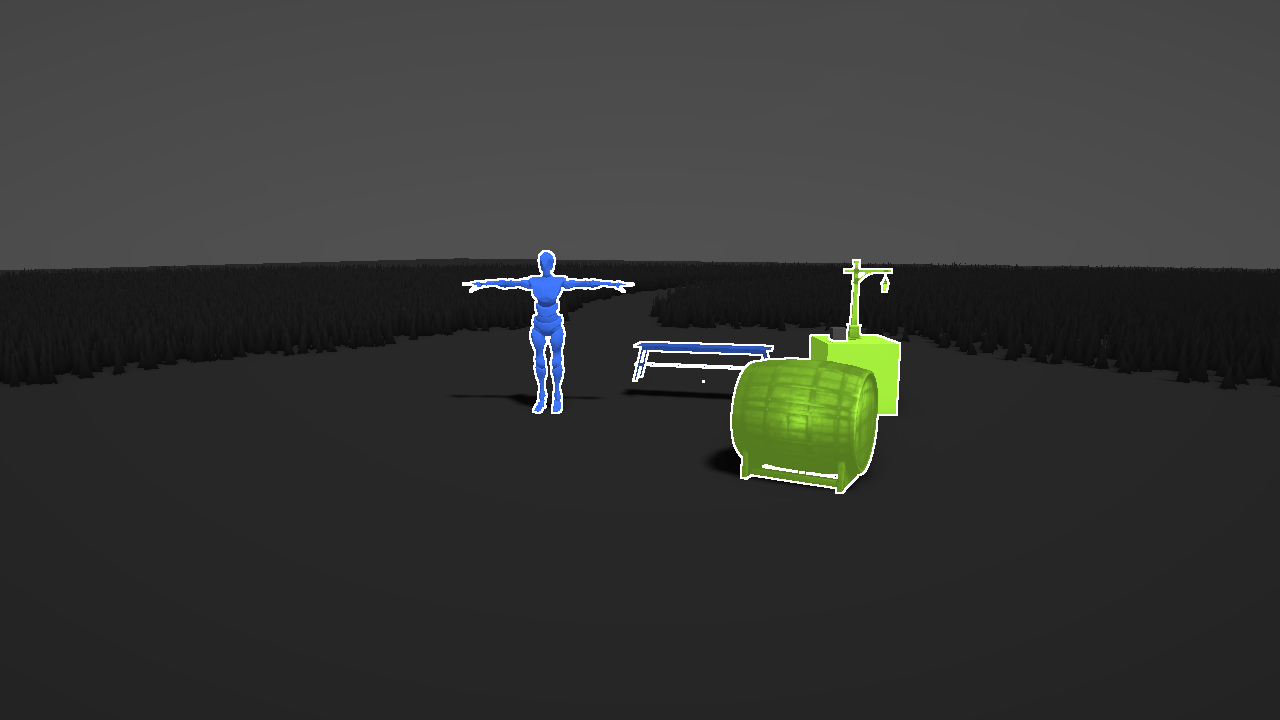
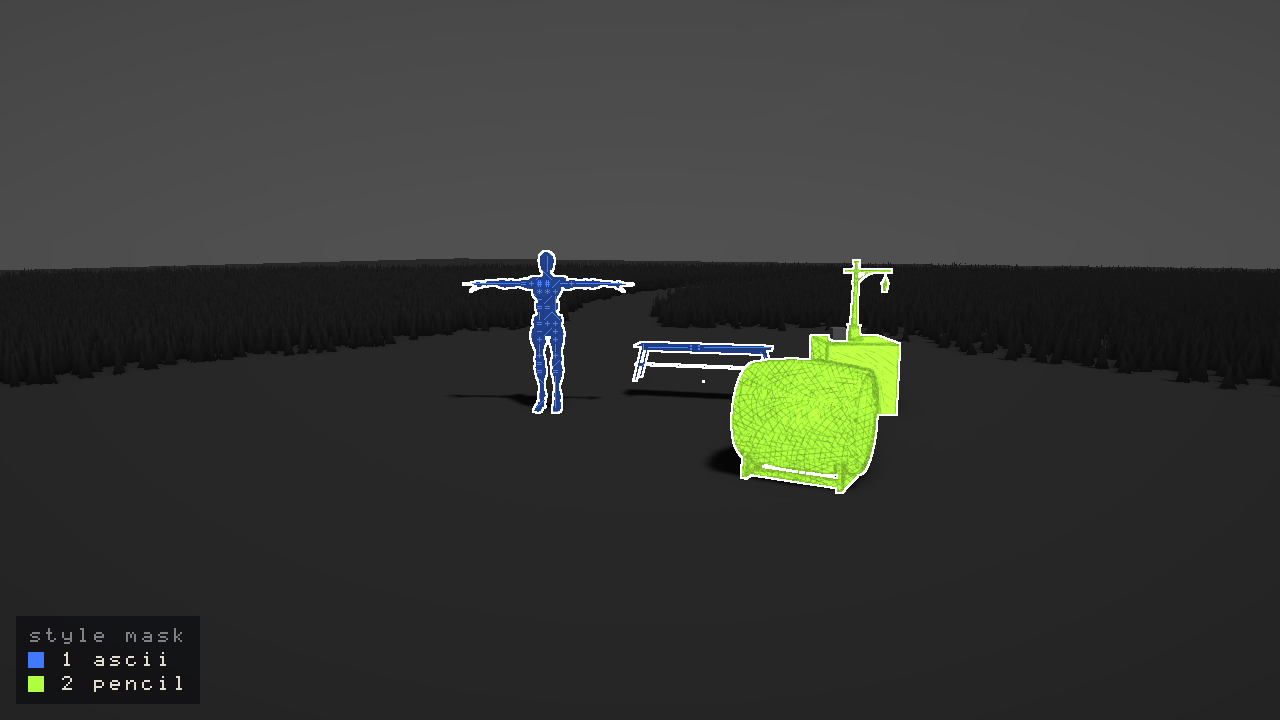
Style mask legend: each id's hue named in flint render, on the image and in F4 (#309)
flint render --debug-mode style prints the id table (style mask: 1 ascii
(blue), 2 pencil (lime)) and draws a legend card in the image's lower left
with the built-in 8x8 glyphs. F4's Debug mode section shows the same
legend while Style Mask is chosen, in the player and the viewer.
style_mask::legend / legend_line / debug_color_name build it from
SceneRenderer::style_ids(). The style-mask golden is re-blessed with the
card, and the book's mask capture and text show it.

Closes #309

diff --git a/crates/flint-debug-ui/src/render_panel.rs b/crates/flint-debug-ui/src/render_panel.rs
@@ -17,6 +17,7 @@
 
 use crate::styles_ui::StylesEditor;
 use crate::DebugPanel;
+use flint_render::style_mask::{legend, LegendEntry, StyleIds};
 use flint_render::stylize::StyleSettings;
 use flint_render::{DebugMode, LightingLevers, PostProcessConfig};
 
@@ -71,6 +72,9 @@ pub struct RenderDebugPanel {
     /// Authored button and markers; set by the host on scene load.
     authored_styles: Option<StyleSettings>,
     styles_editor: StylesEditor,
+    /// The style mask view's legend (#309), shown under the debug mode
+    /// while it is Style Mask; set by the host from the renderer's ids.
+    style_legend: Vec<LegendEntry>,
     flags: RenderPanelFlags,
     open: bool,
     dirty: bool,
@@ -98,6 +102,7 @@ impl RenderDebugPanel {
             show_freeze,
             authored_styles: None,
             styles_editor: StylesEditor::default(),
+            style_legend: Vec::new(),
             flags: RenderPanelFlags::default(),
             open: false,
             dirty: false,
@@ -132,6 +137,25 @@ impl RenderDebugPanel {
     /// or `None` when the host has no scene to compare against.
     pub fn set_authored_styles(&mut self, authored: Option<StyleSettings>) {
         self.authored_styles = authored;
+    }
+
+    /// Mirror the renderer's style ids into the Style Mask legend. Cheap
+    /// every frame: it rebuilds only when the ids changed.
+    pub fn set_style_ids(&mut self, ids: &StyleIds) {
+        let same = self.style_legend.len() == ids.len()
+            && self
+                .style_legend
+                .iter()
+                .zip(ids.iter())
+                .all(|(e, (id, name))| e.id == id && e.name == name);
+        if !same {
+            self.style_legend = legend(ids);
+        }
+    }
+
+    /// The Style Mask legend's rows, in id order.
+    pub fn style_legend(&self) -> &[LegendEntry] {
+        &self.style_legend
     }
 
     /// The block the Styles section's last Copy TOML put on the clipboard.
@@ -472,6 +496,9 @@ impl RenderDebugPanel {
                         }
                     }
                 });
+            if self.debug_mode == DebugMode::StyleMask {
+                style_legend_ui(ui, &self.style_legend);
+            }
         });
 
         self.flags = f;
@@ -479,6 +506,31 @@ impl RenderDebugPanel {
             self.dirty = true;
         }
     }
+}
+
+/// The Style Mask view's legend: a swatch of each id's hue, its id and
+/// the style variant it stands for.
+fn style_legend_ui(ui: &mut egui::Ui, rows: &[LegendEntry]) {
+    if rows.is_empty() {
+        ui.weak("No styled entities: the mask is empty");
+        return;
+    }
+    for row in rows {
+        ui.horizontal(|ui| {
+            let (rect, _) = ui.allocate_exact_size(egui::vec2(10.0, 10.0), egui::Sense::hover());
+            // The mask view paints these display values
+            let byte = |v: f32| (v.clamp(0.0, 1.0) * 255.0).round() as u8;
+            let [r, g, b] = row.color;
+            ui.painter().rect_filled(
+                rect,
+                2.0,
+                egui::Color32::from_rgb(byte(r), byte(g), byte(b)),
+            );
+            ui.label(format!("{}  {}", row.id, row.name))
+                .on_hover_text(row.color_name);
+        });
+    }
+    ui.weak("Grey: unstyled. White: where ids meet.");
 }
 
 fn fov_label(fov_deg: f32) -> &'static str {
@@ -585,5 +637,34 @@ impl DebugPanel for RenderDebugPanel {
     }
     fn as_any_mut(&mut self) -> &mut dyn std::any::Any {
         self
+    }
+}
+
+#[cfg(test)]
+mod tests {
+    use super::*;
+    use flint_render::style_mask::StyleVariant;
+
+    #[test]
+    fn the_style_mask_legend_follows_the_renderer_ids() {
+        let mut panel = RenderDebugPanel::new(false);
+        let mut ids = StyleIds::default();
+        panel.set_style_ids(&ids);
+        assert!(panel.style_legend().is_empty());
+        ids.set(vec![
+            ("pencil".into(), StyleVariant::plain("pencil")),
+            ("ascii".into(), StyleVariant::plain("ascii")),
+        ]);
+        panel.set_style_ids(&ids);
+        let rows: Vec<_> = panel
+            .style_legend()
+            .iter()
+            .map(|e| (e.id, e.name.as_str()))
+            .collect();
+        assert_eq!(rows, [(1, "ascii"), (2, "pencil")]);
+        ids.set(vec![("pencil".into(), StyleVariant::plain("pencil"))]);
+        panel.set_style_ids(&ids);
+        assert_eq!(panel.style_legend()[0].name, "pencil");
+        assert_eq!(panel.style_legend()[0].id, 1, "ids renumber by name order");
     }
 }

diff --git a/crates/flint-cli/src/commands/style_sheet.rs b/crates/flint-cli/src/commands/style_sheet.rs
@@ -149,6 +149,61 @@ pub fn draw_text(
     }
 }
 
+/// The style mask view's legend (#309), in the image's lower left: a
+/// swatch of each style id's hue, its id and its name, on a dark card.
+/// Nothing styled still gets a card saying so, so an empty mask reads as
+/// empty rather than broken.
+pub fn draw_legend(img: &mut RgbaImage, entries: &[flint_render::style_mask::LegendEntry]) {
+    let (w, h) = img.dimensions();
+    let scale = (w / 640).clamp(1, 3);
+    let line = GLYPH * scale;
+    let pad = 6 * scale;
+    let gap = 4 * scale;
+    let rows: Vec<(Option<[f32; 3]>, String)> = if entries.is_empty() {
+        vec![(None, "no styled entities".to_string())]
+    } else {
+        entries
+            .iter()
+            .map(|e| (Some(e.color), format!("{} {}", e.id, e.name)))
+            .collect()
+    };
+    let longest = rows
+        .iter()
+        .map(|(_, t)| t.chars().count())
+        .max()
+        .unwrap_or(0) as u32;
+    let swatch = line;
+    let card_w = (pad * 2 + swatch + gap * 2 + longest * line).min(w);
+    let header = line + gap;
+    let card_h = (pad * 2 + header + rows.len() as u32 * (line + gap) - gap).min(h);
+    let margin = 8 * scale;
+    let x0 = margin.min(w.saturating_sub(card_w));
+    let y0 = h.saturating_sub(card_h + margin);
+    for y in y0..(y0 + card_h).min(h) {
+        for x in x0..(x0 + card_w).min(w) {
+            let under = *img.get_pixel(x, y);
+            img.put_pixel(x, y, blend(under, PAPER, 215));
+        }
+    }
+    let font = GlyphAtlas::builtin();
+    draw_text(img, &font, x0 + pad, y0 + pad, scale, DIM, "style mask");
+    for (i, (color, text)) in rows.iter().enumerate() {
+        let y = y0 + pad + header + i as u32 * (line + gap);
+        let mut tx = x0 + pad;
+        if let Some([r, g, b]) = color {
+            let byte = |v: f32| (v.clamp(0.0, 1.0) * 255.0).round() as u8;
+            let c = Rgba([byte(*r), byte(*g), byte(*b), 255]);
+            for sy in y..(y + swatch).min(h) {
+                for sx in tx..(tx + swatch).min(w) {
+                    img.put_pixel(sx, sy, c);
+                }
+            }
+            tx += swatch + gap * 2;
+        }
+        draw_text(img, &font, tx, y, scale, LABEL, text);
+    }
+}
+
 fn blend(under: Rgba<u8>, over: Rgba<u8>, alpha: u8) -> Rgba<u8> {
     let a = u32::from(alpha);
     let mix = |u: u8, o: u8| ((u32::from(u) * (255 - a) + u32::from(o) * a) / 255) as u8;
@@ -235,6 +290,31 @@ mod tests {
         let long = compose(&cells, &text(&["0.25", "0.75"]));
         let ink = |s: &RgbaImage| s.pixels().filter(|p| p[0] > 150 && p[2] > 150).count();
         assert!(ink(&long) > ink(&short));
+    }
+
+    #[test]
+    fn the_legend_paints_each_style_swatch_in_the_lower_left() {
+        use flint_render::style_mask::{debug_color, LegendEntry};
+        let entry = |id: u16, name: &str| LegendEntry {
+            id,
+            name: name.into(),
+            color: debug_color(id),
+            color_name: "",
+        };
+        let mut img = RgbaImage::from_pixel(640, 360, Rgba([90, 90, 90, 255]));
+        draw_legend(&mut img, &[entry(1, "ascii"), entry(2, "pencil")]);
+        for id in [1u16, 2] {
+            let c = debug_color(id).map(|v| (v * 255.0).round() as u8);
+            let at: Vec<(u32, u32)> = img
+                .enumerate_pixels()
+                .filter(|(_, _, p)| p.0[..3] == c)
+                .map(|(x, y, _)| (x, y))
+                .collect();
+            assert_eq!(at.len(), 64, "one 8x8 swatch for id {id}");
+            assert!(at.iter().all(|&(x, y)| x < 320 && y > 180));
+        }
+        // The top right is untouched
+        assert_eq!(*img.get_pixel(600, 20), Rgba([90, 90, 90, 255]));
     }
 
     #[test]

diff --git a/crates/flint-render/src/style_mask.rs b/crates/flint-render/src/style_mask.rs
@@ -513,6 +513,73 @@ pub fn debug_color(id: u16) -> [f32; 3] {
     [0.25 + 0.75 * r, 0.25 + 0.75 * g, 0.25 + 0.75 * b]
 }
 
+/// A word for [`debug_color`]'s hue of `id`, so a legend can say "blue"
+/// rather than a triple (#309). `NO_STYLE` is "black".
+pub fn debug_color_name(id: u16) -> &'static str {
+    if id == NO_STYLE {
+        return "black";
+    }
+    let degrees = (id as f32 * 0.618_034).fract() * 360.0;
+    const NAMES: [(f32, &str); 12] = [
+        (15.0, "red"),
+        (40.0, "orange"),
+        (68.0, "yellow"),
+        (100.0, "lime"),
+        (145.0, "green"),
+        (170.0, "mint"),
+        (195.0, "cyan"),
+        (220.0, "azure"),
+        (255.0, "blue"),
+        (285.0, "violet"),
+        (325.0, "magenta"),
+        (345.0, "pink"),
+    ];
+    NAMES
+        .iter()
+        .find(|(below, _)| degrees < *below)
+        .map_or("red", |(_, name)| name)
+}
+
+/// One row of the style mask view's legend: an id, the style variant it
+/// stands for and the colour the view paints it.
+#[derive(Debug, Clone, PartialEq)]
+pub struct LegendEntry {
+    pub id: u16,
+    /// The variant's name, as [`StyleIds`] holds it (`ascii`, `ascii{off}`).
+    pub name: String,
+    /// The view's display colour, 0..1.
+    pub color: [f32; 3],
+    /// A word for the colour ([`debug_color_name`]).
+    pub color_name: &'static str,
+}
+
+/// The legend for the style mask view (#309): each id in `ids`, in id
+/// order, with its hue.
+pub fn legend(ids: &StyleIds) -> Vec<LegendEntry> {
+    ids.iter()
+        .map(|(id, name)| LegendEntry {
+            id,
+            name: name.to_string(),
+            color: debug_color(id),
+            color_name: debug_color_name(id),
+        })
+        .collect()
+}
+
+/// The legend on one line, as `flint render` prints it:
+/// `style mask: 1 ascii (blue), 2 pencil (green)`, or a note that nothing
+/// is styled.
+pub fn legend_line(ids: &StyleIds) -> String {
+    if ids.is_empty() {
+        return "style mask: no styled entities".to_string();
+    }
+    let rows: Vec<String> = legend(ids)
+        .iter()
+        .map(|e| format!("{} {} ({})", e.id, e.name, e.color_name))
+        .collect();
+    format!("style mask: {}", rows.join(", "))
+}
+
 // ---------------------------------------------------------------------------
 // The pass
 // ---------------------------------------------------------------------------
@@ -804,6 +871,27 @@ mod tests {
             let d: f32 = ca.iter().zip(cb).map(|(x, y)| (x - y).abs()).sum();
             assert!(d > 0.3, "{a} and {} look alike", a + 1);
         }
+    }
+
+    #[test]
+    fn the_legend_names_each_id_and_its_hue() {
+        assert_eq!(debug_color_name(NO_STYLE), "black");
+        assert_eq!(debug_color_name(1), "blue");
+        assert_eq!(debug_color_name(2), "lime");
+        let mut ids = StyleIds::default();
+        assert_eq!(legend_line(&ids), "style mask: no styled entities");
+        ids.set(vec![
+            ("pencil".into(), StyleVariant::plain("pencil")),
+            ("ascii".into(), StyleVariant::plain("ascii")),
+        ]);
+        let rows = legend(&ids);
+        assert_eq!(rows.len(), 2);
+        assert_eq!((rows[0].id, rows[0].name.as_str()), (1, "ascii"));
+        assert_eq!(rows[1].color, debug_color(2));
+        assert_eq!(
+            legend_line(&ids),
+            "style mask: 1 ascii (blue), 2 pencil (lime)"
+        );
     }
 
     fn world_with(entities: &[(&str, Option<&str>, Option<&str>)]) -> FlintWorld {

diff --git a/crates/flint-cli/src/commands/render.rs b/crates/flint-cli/src/commands/render.rs
@@ -796,8 +796,17 @@ pub fn run(args: RenderArgs) -> Result<()> {
         );
         let pixels =
             pollster::block_on(ctx.read_pixels()).context("Failed to read rendered pixels")?;
-        let img = image::RgbaImage::from_raw(width, height, pixels)
+        let mut img = image::RgbaImage::from_raw(width, height, pixels)
             .context("Failed to create image from pixel data")?;
+        // The style mask view says which hue is which style (#309): in the
+        // terminal once, and on every frame's corner
+        if renderer.debug_state().mode == DebugMode::StyleMask && !args.no_postprocess {
+            let ids = renderer.style_ids();
+            if i == 0 {
+                println!("{}", flint_render::style_mask::legend_line(ids));
+            }
+            super::style_sheet::draw_legend(&mut img, &flint_render::style_mask::legend(ids));
+        }
         if let Some(sweep) = &args.sweep {
             println!("  {} = {}", sweep.name(), sweep.values[i]);
         }

diff --git a/crates/flint-player/src/player_app/frame.rs b/crates/flint-player/src/player_app/frame.rs
@@ -290,6 +290,7 @@ impl PlayerApp {
                     self.camera.fov,
                 );
             }
+            rp.set_style_ids(renderer.style_ids());
         }
 
         // F3 Styles panel (#268): the same write-through as F4, for the

diff --git a/crates/flint-viewer/src/app.rs b/crates/flint-viewer/src/app.rs
@@ -1026,6 +1026,7 @@ impl ViewerApp {
                 self.camera.fov,
             );
         }
+        rp.set_style_ids(renderer.style_ids());
     }
 
     fn animate_camera(&mut self) {

diff --git a/docs/book/src/concepts/stylize-passes.md b/docs/book/src/concepts/stylize-passes.md
@@ -713,7 +713,7 @@ enabled = false         # out of any style, including an inherited one
 
 Descendants inherit their ancestor's style until one of them carries a `style_mask` of its own. Ids are numbered from 1 in name order, so the same scene gets the same ids on every run; a style finds its own with `frame.style_id("pencil")`.
 
-![The style mask debug view over demo/style_mask.scene.toml: the bench and the skinned YBot in one hue ("ascii"), the barrel, the crate and the lantern it carries in another ("pencil"), the opted-out box on the crate grey](../images/style-mask-debug.png)
+![The style mask debug view over demo/style_mask.scene.toml: the bench and the skinned YBot in one hue ("ascii"), the barrel, the crate and the lantern it carries in another ("pencil"), the opted-out box on the crate grey, and the legend in the lower left naming each hue](../images/style-mask-debug.png)
 
 See it with the `style` debug view, which switches the `mask_view` style on:
 
@@ -721,7 +721,13 @@ See it with the `style` debug view, which switches the `mask_view` style on:
 flint render demo/style_mask.scene.toml --debug-mode style --output mask.png
 ```
 
-Each style is a hue over the scene's shading, unstyled pixels are grey, and a white line marks where two ids meet. In the player and viewer it is **Style Mask** in F4's debug shading list.
+Each style is a hue over the scene's shading, unstyled pixels are grey, and a white line marks where two ids meet. A legend in the image's lower left gives each id's swatch and name, and the command prints the same table (#309):
+
+```text
+style mask: 1 ascii (blue), 2 pencil (lime)
+```
+
+Ids follow name order, so they shift when a scene adds a style: read the legend rather than remembering a hue. A variant is its own row (`ascii{ramp=blocks}`, `ascii@barrel`). In the player and viewer the view is **Style Mask** in F4's debug shading list, and choosing it shows the same legend under the list; `flint_render::style_mask::legend` / `legend_line` build it from `SceneRenderer::style_ids()` for any other host.
 
 How it's drawn:
 

diff --git a/CLAUDE.md b/CLAUDE.md
@@ -31,7 +31,8 @@ Flint uses an **edit -> validate -> play** loop:
      --distance 20 --pitch 30 --yaw 45 --target 0,1,0 --no-grid
    # Debug/post-processing flags:
    #   --debug-mode wireframe|normals|depth|uv|unlit|metalrough|style
-   #                          (style = the entity style mask, #263: needs post-processing)
+   #                          (style = the entity style mask, #263: needs post-processing;
+   #                          prints and draws a legend of each id's hue, #309)
    #   --wireframe-overlay    --show-normals    --no-tonemapping
    #   --no-shadows           --shadow-resolution 2048
    #   --no-postprocess       --bloom-intensity 0.08  --bloom-threshold 1.0
